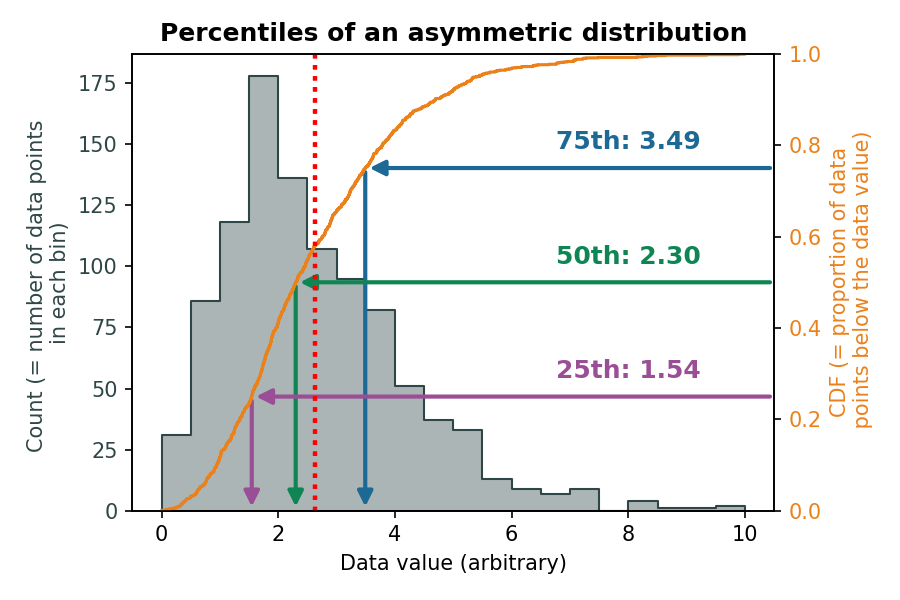
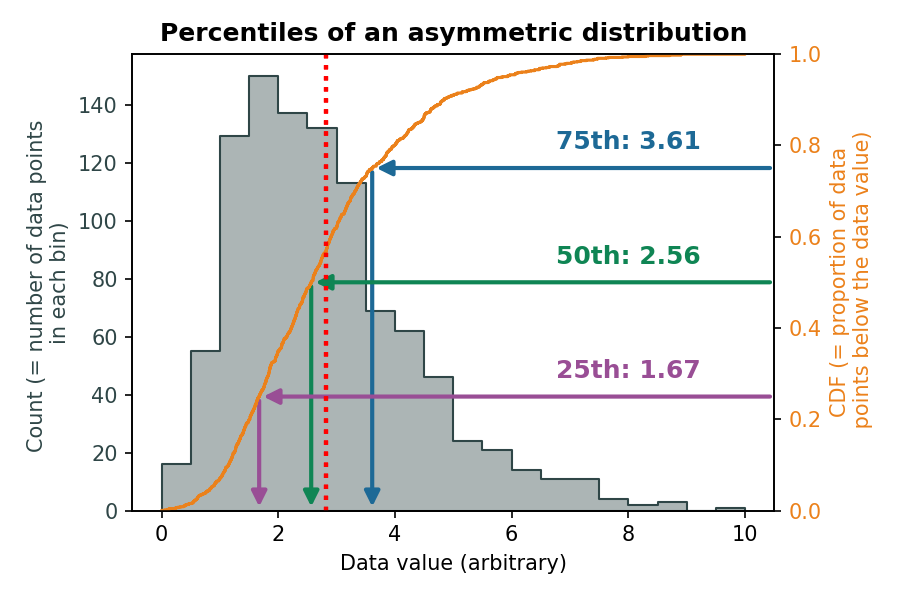
Mess

diff --git a/_extensions/grantmcdermott/clean/clean.scss b/_extensions/grantmcdermott/clean/clean.scss
@@ -445,6 +445,10 @@ span[data-code-cell] {
   position: relative;
   top: -50px;
 }
+.img-up-75 {
+  position: relative;
+  top: -75px;
+}
 .img-down-50 {
   position: relative;
   top: 50px;
